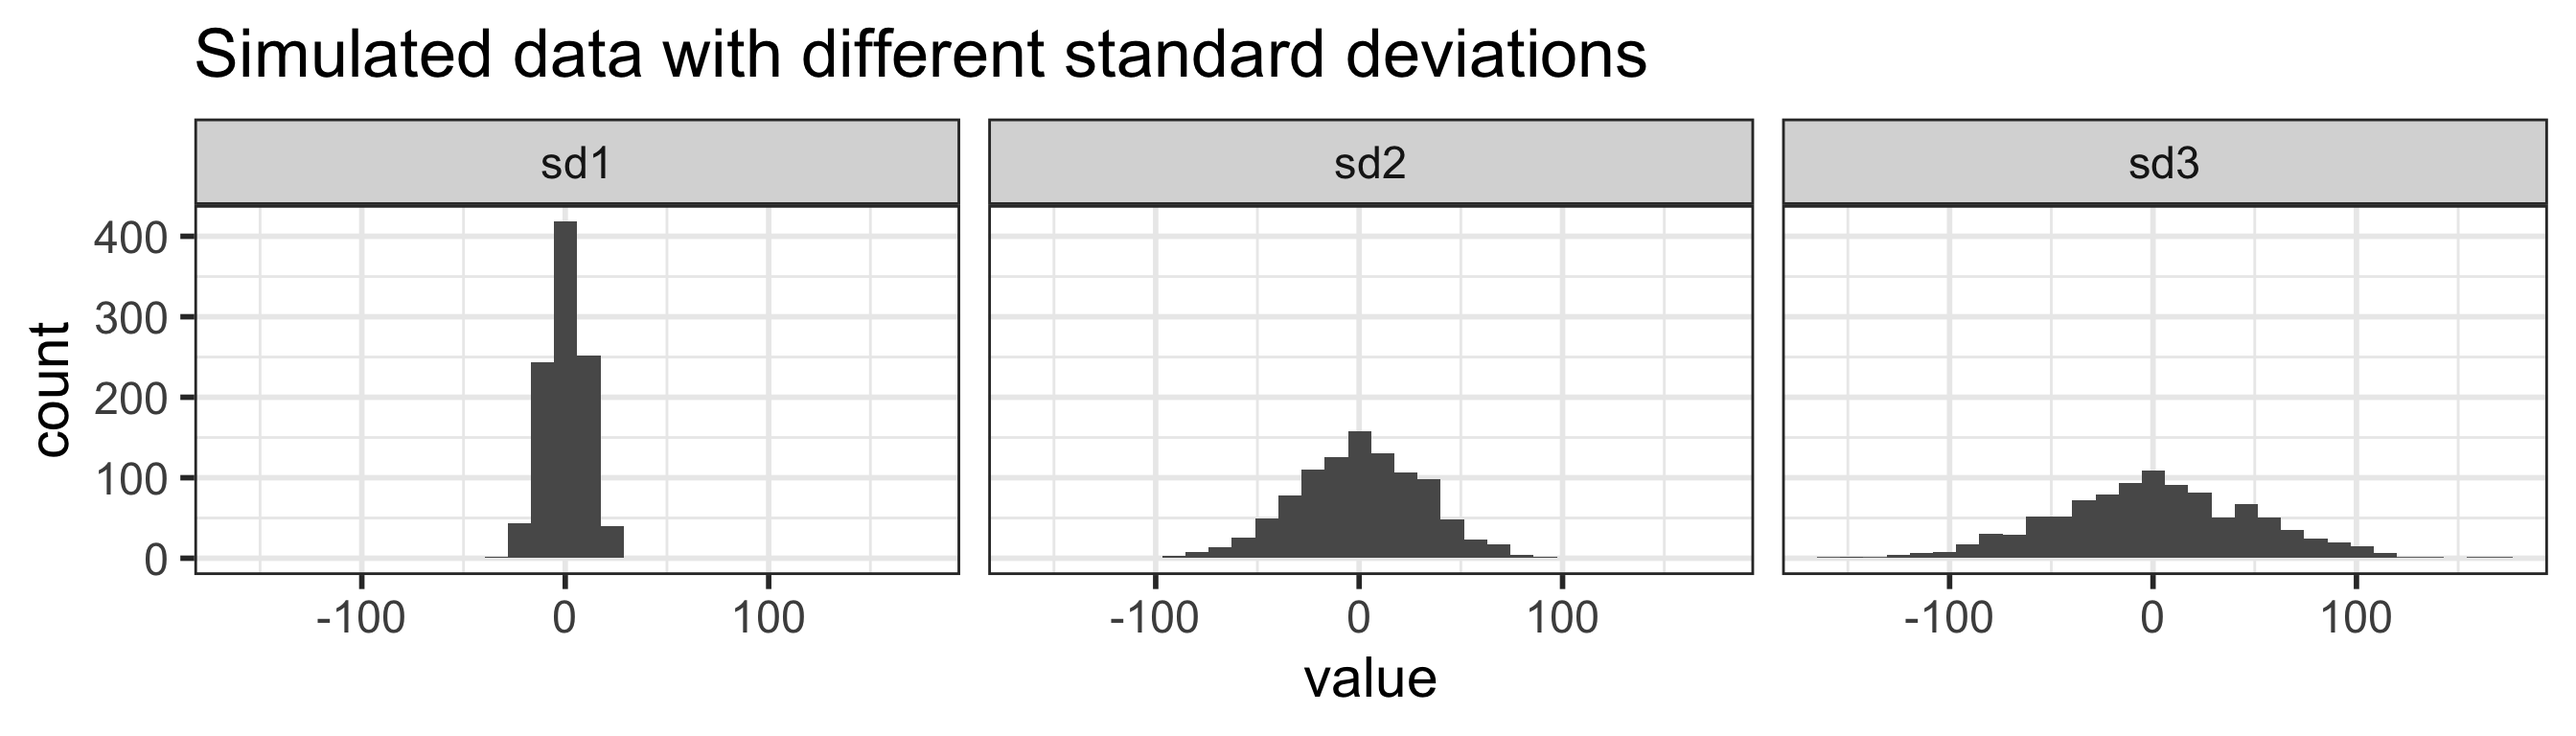
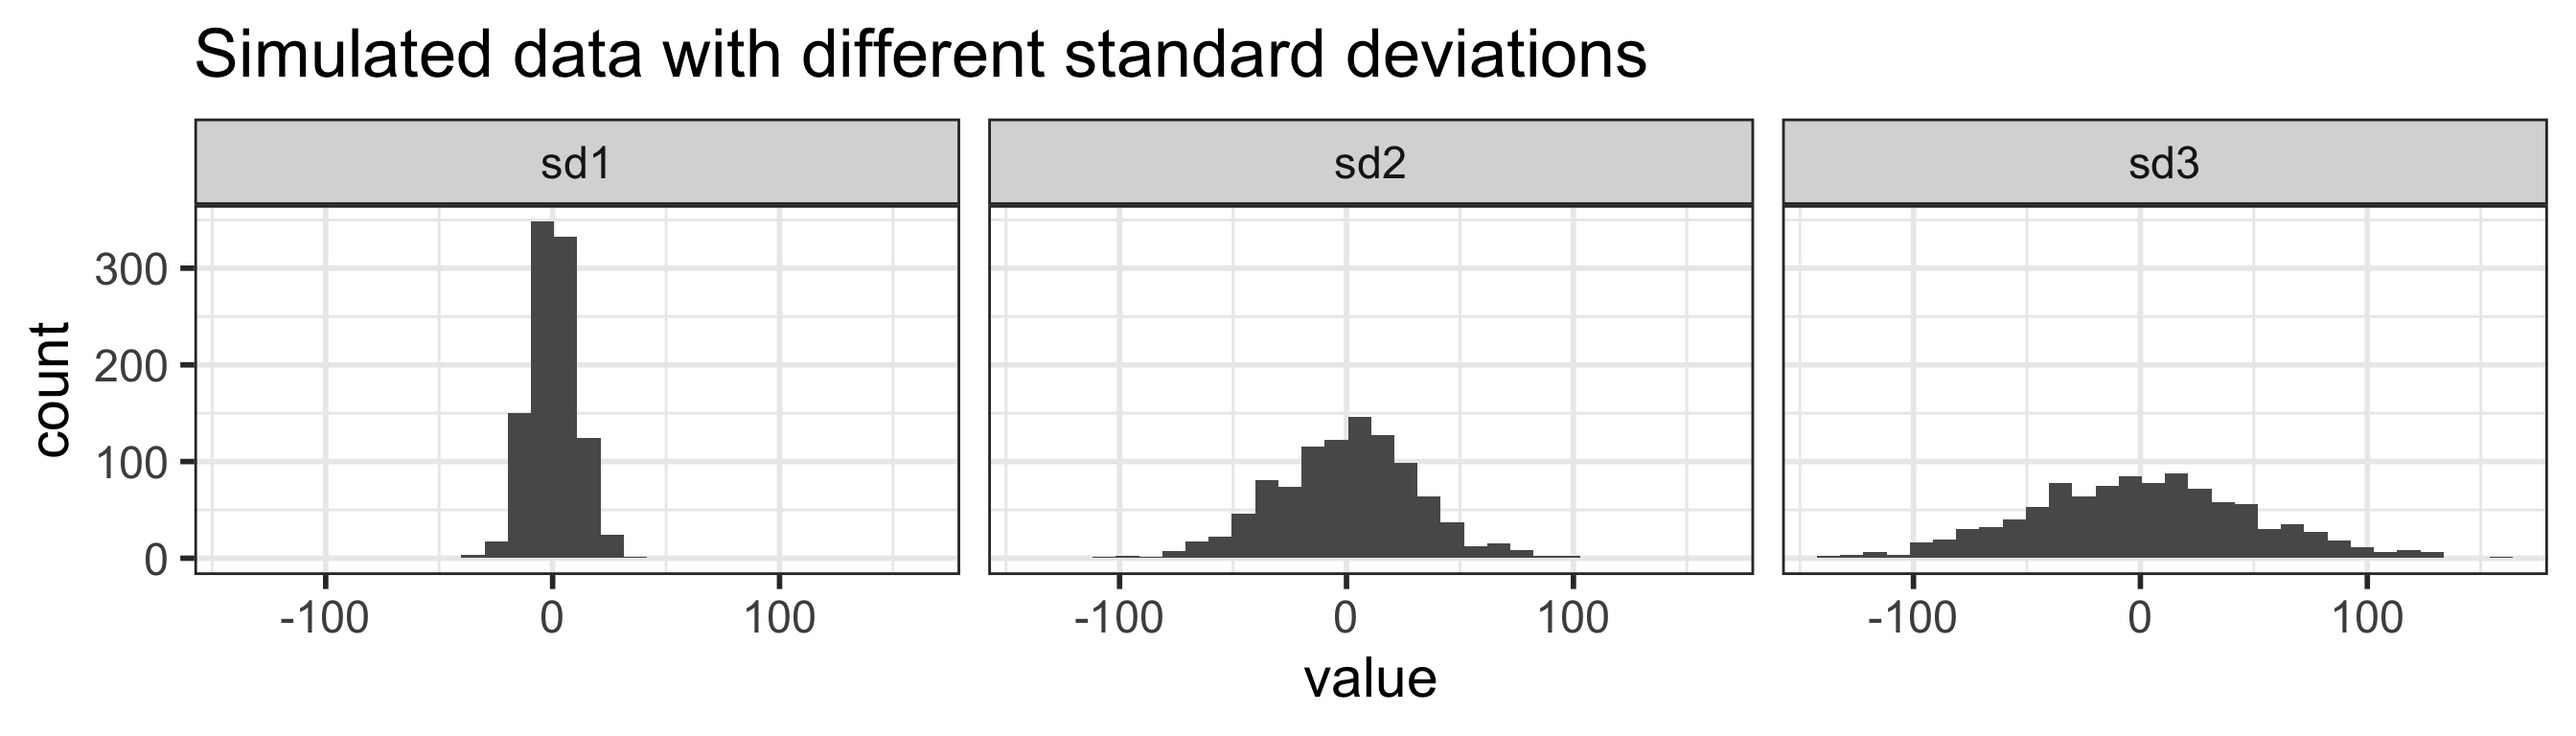
Day 2 slides: F25 -> F26

diff --git a/docs/slides_code/Day02_bsta511_code.html b/docs/slides_code/Day02_bsta511_code.html
@@ -265,7 +265,7 @@ window.Quarto = {
   <li><a href="#another-resource-for-an-introduction-to-r" id="toc-another-resource-for-an-introduction-to-r" class="nav-link" data-scroll-target="#another-resource-for-an-introduction-to-r">Another resource for an introduction to R</a></li>
   </ul></li>
   <li><a href="#moritzs-tip-of-the-day" id="toc-moritzs-tip-of-the-day" class="nav-link" data-scroll-target="#moritzs-tip-of-the-day">MoRitz’s tip of the day</a></li>
-  <li><a href="#data-collection-principles---day-2-in-f25" id="toc-data-collection-principles---day-2-in-f25" class="nav-link" data-scroll-target="#data-collection-principles---day-2-in-f25">(1.3) Data collection principles - Day 2 in F25</a>
+  <li><a href="#data-collection-principles---day-2-in-f26" id="toc-data-collection-principles---day-2-in-f26" class="nav-link" data-scroll-target="#data-collection-principles---day-2-in-f26">(1.3) Data collection principles - Day 2 in F26</a>
   <ul class="collapse">
   <li><a href="#population-vs.-sample" id="toc-population-vs.-sample" class="nav-link" data-scroll-target="#population-vs.-sample">Population vs.&nbsp;sample</a>
   <ul class="collapse">
@@ -286,7 +286,7 @@ window.Quarto = {
   <li><a href="#comparing-study-designs" id="toc-comparing-study-designs" class="nav-link" data-scroll-target="#comparing-study-designs">Comparing study designs</a></li>
   <li><a href="#systematic-reviews-example" id="toc-systematic-reviews-example" class="nav-link" data-scroll-target="#systematic-reviews-example">Systematic Reviews example</a></li>
   </ul></li>
-  <li><a href="#intro-to-data---day-2-in-f25" id="toc-intro-to-data---day-2-in-f25" class="nav-link" data-scroll-target="#intro-to-data---day-2-in-f25">(1.2) Intro to Data - Day 2 in F25</a>
+  <li><a href="#intro-to-data---day-2-in-f26" id="toc-intro-to-data---day-2-in-f26" class="nav-link" data-scroll-target="#intro-to-data---day-2-in-f26">(1.2) Intro to Data - Day 2 in F26</a>
   <ul class="collapse">
   <li><a href="#how-are-data-stored-how-do-we-use-them" id="toc-how-are-data-stored-how-do-we-use-them" class="nav-link" data-scroll-target="#how-are-data-stored-how-do-we-use-them">How are data stored, how do we use them?</a>
   <ul class="collapse">
@@ -306,7 +306,7 @@ window.Quarto = {
   <li><a href="#example-using-the" id="toc-example-using-the" class="nav-link" data-scroll-target="#example-using-the">Example using the <code>$</code></a></li>
   <li><a href="#inline-code" id="toc-inline-code" class="nav-link" data-scroll-target="#inline-code">Inline code</a></li>
   </ul></li>
-  <li><a href="#summarizing-numerical-data---day-3-in-f25" id="toc-summarizing-numerical-data---day-3-in-f25" class="nav-link" data-scroll-target="#summarizing-numerical-data---day-3-in-f25">(1.4) Summarizing numerical data - Day 3 in F25</a>
+  <li><a href="#summarizing-numerical-data---day-3-in-f26" id="toc-summarizing-numerical-data---day-3-in-f26" class="nav-link" data-scroll-target="#summarizing-numerical-data---day-3-in-f26">(1.4) Summarizing numerical data - Day 3 in F26</a>
   <ul class="collapse">
   <li><a href="#table-1-example" id="toc-table-1-example" class="nav-link" data-scroll-target="#table-1-example">Table 1 example</a></li>
   <li><a href="#measures-of-center-mean" id="toc-measures-of-center-mean" class="nav-link" data-scroll-target="#measures-of-center-mean">Measures of center: mean</a></li>
@@ -326,7 +326,7 @@ window.Quarto = {
   <li><a href="#measures-of-spread-iqr-22" id="toc-measures-of-spread-iqr-22" class="nav-link" data-scroll-target="#measures-of-spread-iqr-22">Measures of spread: IQR (2/2)</a></li>
   <li><a href="#robust-estimates" id="toc-robust-estimates" class="nav-link" data-scroll-target="#robust-estimates">Robust estimates</a></li>
   </ul></li>
-  <li><a href="#r-packages---day-4-in-f25" id="toc-r-packages---day-4-in-f25" class="nav-link" data-scroll-target="#r-packages---day-4-in-f25">R Packages - Day 4 in F25</a>
+  <li><a href="#r-packages---day-4-in-f26" id="toc-r-packages---day-4-in-f26" class="nav-link" data-scroll-target="#r-packages---day-4-in-f26">R Packages - Day 4 in F26</a>
   <ul class="collapse">
   <li><a href="#installing-packages" id="toc-installing-packages" class="nav-link" data-scroll-target="#installing-packages">Installing packages</a></li>
   <li><a href="#video-on-installing-packages" id="toc-video-on-installing-packages" class="nav-link" data-scroll-target="#video-on-installing-packages">Video on installing packages</a></li>
@@ -379,25 +379,25 @@ window.Quarto = {
 <section id="goals-for-today" class="level1">
 <h1>Goals for today</h1>
 <ul>
-<li>(1.3) <strong>Data collection principles</strong> - <span style="color:darkorange">Day 2 in F25</span>
+<li>(1.3) <strong>Data collection principles</strong> - <span style="color:darkorange">Day 2 in F26</span>
 <ul>
 <li>Population vs.&nbsp;sample</li>
 <li>Sampling methods</li>
 <li>Experiments vs.&nbsp;Observational studies</li>
 </ul></li>
-<li>(1.2) <strong>Intro to Data</strong> - <span style="color:darkorange">Day 2 in F25</span>
+<li>(1.2) <strong>Intro to Data</strong> - <span style="color:darkorange">Day 2 in F26</span>
 <ul>
 <li>Data types</li>
 <li>How are data stored in R?</li>
 <li>Working with data in R</li>
 </ul></li>
-<li>(1.4) <strong>Summarizing numerical data</strong> - <span style="color:darkorange">Day 3 in F25</span>
+<li>(1.4) <strong>Summarizing numerical data</strong> - <span style="color:darkorange">Day 3 in F26</span>
 <ul>
 <li>Mean, median, mode, SD, IQR, range, 5 number summary</li>
 <li>Empirical Rule</li>
 <li>robust statistics</li>
 </ul></li>
-<li><strong>R packages</strong> - <span style="color:darkorange">Day 4 in F25</span> -&gt; <strong><span style="color:darkorange">install for Day 5!!!</span></strong></li>
+<li><strong>R packages</strong> - <span style="color:darkorange">Day 4 in F26</span> -&gt; <strong><span style="color:darkorange">install for Day 5!!!</span></strong></li>
 </ul>
 </section>
 <section id="recap-of-last-time" class="level1">
@@ -476,8 +476,8 @@ window.Quarto = {
 <p>Customize your RStudio interface!<br>
 <a href="https://www.pipinghotdata.com/posts/2020-09-07-introducing-the-rstudio-ide-and-r-markdown/#background">https://www.pipinghotdata.com/posts/2020-09-07-introducing-the-rstudio-ide-and-r-markdown/#background</a></p>
 </section>
-<section id="data-collection-principles---day-2-in-f25" class="level1">
-<h1>(1.3) Data collection principles - Day 2 in F25</h1>
+<section id="data-collection-principles---day-2-in-f26" class="level1">
+<h1>(1.3) Data collection principles - Day 2 in F26</h1>
 <ul>
 <li>Population vs.&nbsp;sample</li>
 <li>Sampling methods</li>
@@ -630,8 +630,8 @@ the characteristics of the sample are similar to the characteristics of the popu
 The project is funded by the US Department of Veterans Affairs: Office of Rural Health.</p>
 </section>
 </section>
-<section id="intro-to-data---day-2-in-f25" class="level1">
-<h1>(1.2) Intro to Data - Day 2 in F25</h1>
+<section id="intro-to-data---day-2-in-f26" class="level1">
+<h1>(1.2) Intro to Data - Day 2 in F26</h1>
 <section id="how-are-data-stored-how-do-we-use-them" class="level2">
 <h2 class="anchored" data-anchor-id="how-are-data-stored-how-do-we-use-them">How are data stored, how do we use them?</h2>
 <ul>
@@ -954,8 +954,8 @@ The project is funded by the US Department of Veterans Affairs: Office of Rural 
 </ul>
 </section>
 </section>
-<section id="summarizing-numerical-data---day-3-in-f25" class="level1">
-<h1>(1.4) Summarizing numerical data - Day 3 in F25</h1>
+<section id="summarizing-numerical-data---day-3-in-f26" class="level1">
+<h1>(1.4) Summarizing numerical data - Day 3 in F26</h1>
 <p>Measures of center &amp; spread</p>
 <section id="table-1-example" class="level2">
 <h2 class="anchored" data-anchor-id="table-1-example">Table 1 example</h2>
@@ -1234,8 +1234,8 @@ Arthritis Care &amp; Research.<br>
 </table>
 </section>
 </section>
-<section id="r-packages---day-4-in-f25" class="level1">
-<h1>R Packages - Day 4 in F25</h1>
+<section id="r-packages---day-4-in-f26" class="level1">
+<h1>R Packages - Day 4 in F26</h1>
 <p>A good analogy for R packages is that they<br>
 are like apps you can download onto a mobile phone:</p>
 <section id="installing-packages" class="level2">

diff --git a/docs/slides_md/Day02_bsta511_md.html b/docs/slides_md/Day02_bsta511_md.html
@@ -265,7 +265,7 @@ window.Quarto = {
   <li><a href="#another-resource-for-an-introduction-to-r" id="toc-another-resource-for-an-introduction-to-r" class="nav-link" data-scroll-target="#another-resource-for-an-introduction-to-r">Another resource for an introduction to R</a></li>
   </ul></li>
   <li><a href="#moritzs-tip-of-the-day" id="toc-moritzs-tip-of-the-day" class="nav-link" data-scroll-target="#moritzs-tip-of-the-day">MoRitz’s tip of the day</a></li>
-  <li><a href="#data-collection-principles---day-2-in-f25" id="toc-data-collection-principles---day-2-in-f25" class="nav-link" data-scroll-target="#data-collection-principles---day-2-in-f25">(1.3) Data collection principles - Day 2 in F25</a>
+  <li><a href="#data-collection-principles---day-2-in-f26" id="toc-data-collection-principles---day-2-in-f26" class="nav-link" data-scroll-target="#data-collection-principles---day-2-in-f26">(1.3) Data collection principles - Day 2 in F26</a>
   <ul class="collapse">
   <li><a href="#population-vs.-sample" id="toc-population-vs.-sample" class="nav-link" data-scroll-target="#population-vs.-sample">Population vs.&nbsp;sample</a>
   <ul class="collapse">
@@ -282,7 +282,7 @@ window.Quarto = {
   <li><a href="#comparing-study-designs" id="toc-comparing-study-designs" class="nav-link" data-scroll-target="#comparing-study-designs">Comparing study designs</a></li>
   <li><a href="#systematic-reviews-example" id="toc-systematic-reviews-example" class="nav-link" data-scroll-target="#systematic-reviews-example">Systematic Reviews example</a></li>
   </ul></li>
-  <li><a href="#intro-to-data---day-2-in-f25" id="toc-intro-to-data---day-2-in-f25" class="nav-link" data-scroll-target="#intro-to-data---day-2-in-f25">(1.2) Intro to Data - Day 2 in F25</a>
+  <li><a href="#intro-to-data---day-2-in-f26" id="toc-intro-to-data---day-2-in-f26" class="nav-link" data-scroll-target="#intro-to-data---day-2-in-f26">(1.2) Intro to Data - Day 2 in F26</a>
   <ul class="collapse">
   <li><a href="#how-are-data-stored-how-do-we-use-them" id="toc-how-are-data-stored-how-do-we-use-them" class="nav-link" data-scroll-target="#how-are-data-stored-how-do-we-use-them">How are data stored, how do we use them?</a>
   <ul class="collapse">
@@ -302,7 +302,7 @@ window.Quarto = {
   <li><a href="#example-using-the" id="toc-example-using-the" class="nav-link" data-scroll-target="#example-using-the">Example using the <code>$</code></a></li>
   <li><a href="#inline-code" id="toc-inline-code" class="nav-link" data-scroll-target="#inline-code">Inline code</a></li>
   </ul></li>
-  <li><a href="#summarizing-numerical-data---day-3-in-f25" id="toc-summarizing-numerical-data---day-3-in-f25" class="nav-link" data-scroll-target="#summarizing-numerical-data---day-3-in-f25">(1.4) Summarizing numerical data - Day 3 in F25</a>
+  <li><a href="#summarizing-numerical-data---day-3-in-f26" id="toc-summarizing-numerical-data---day-3-in-f26" class="nav-link" data-scroll-target="#summarizing-numerical-data---day-3-in-f26">(1.4) Summarizing numerical data - Day 3 in F26</a>
   <ul class="collapse">
   <li><a href="#table-1-example" id="toc-table-1-example" class="nav-link" data-scroll-target="#table-1-example">Table 1 example</a></li>
   <li><a href="#measures-of-center-mean" id="toc-measures-of-center-mean" class="nav-link" data-scroll-target="#measures-of-center-mean">Measures of center: mean</a></li>
@@ -318,7 +318,7 @@ window.Quarto = {
   <li><a href="#measures-of-spread-iqr-22" id="toc-measures-of-spread-iqr-22" class="nav-link" data-scroll-target="#measures-of-spread-iqr-22">Measures of spread: IQR (2/2)</a></li>
   <li><a href="#robust-estimates" id="toc-robust-estimates" class="nav-link" data-scroll-target="#robust-estimates">Robust estimates</a></li>
   </ul></li>
-  <li><a href="#r-packages---day-4-in-f25" id="toc-r-packages---day-4-in-f25" class="nav-link" data-scroll-target="#r-packages---day-4-in-f25">R Packages - Day 4 in F25</a>
+  <li><a href="#r-packages---day-4-in-f26" id="toc-r-packages---day-4-in-f26" class="nav-link" data-scroll-target="#r-packages---day-4-in-f26">R Packages - Day 4 in F26</a>
   <ul class="collapse">
   <li><a href="#r-packages" id="toc-r-packages" class="nav-link" data-scroll-target="#r-packages">R Packages</a></li>
   <li><a href="#installing-packages" id="toc-installing-packages" class="nav-link" data-scroll-target="#installing-packages">Installing packages</a></li>
@@ -372,25 +372,25 @@ window.Quarto = {
 <section id="goals-for-today" class="level1 smaller">
 <h1 class="smaller">Goals for today</h1>
 <ul>
-<li>(1.3) <strong>Data collection principles</strong> - <span style="color:darkorange">Day 2 in F25</span>
+<li>(1.3) <strong>Data collection principles</strong> - <span style="color:darkorange">Day 2 in F26</span>
 <ul>
 <li>Population vs.&nbsp;sample</li>
 <li>Sampling methods</li>
 <li>Experiments vs.&nbsp;Observational studies</li>
 </ul></li>
-<li>(1.2) <strong>Intro to Data</strong> - <span style="color:darkorange">Day 2 in F25</span>
+<li>(1.2) <strong>Intro to Data</strong> - <span style="color:darkorange">Day 2 in F26</span>
 <ul>
 <li>Data types</li>
 <li>How are data stored in R?</li>
 <li>Working with data in R</li>
 </ul></li>
-<li>(1.4) <strong>Summarizing numerical data</strong> - <span style="color:darkorange">Day 3 in F25</span>
+<li>(1.4) <strong>Summarizing numerical data</strong> - <span style="color:darkorange">Day 3 in F26</span>
 <ul>
 <li>Mean, median, mode, SD, IQR, range, 5 number summary</li>
 <li>Empirical Rule</li>
 <li>robust statistics</li>
 </ul></li>
-<li><strong>R packages</strong> - <span style="color:darkorange">Day 4 in F25</span> -&gt; <strong><span style="color:darkorange">install for Day 5!!!</span></strong></li>
+<li><strong>R packages</strong> - <span style="color:darkorange">Day 4 in F26</span> -&gt; <strong><span style="color:darkorange">install for Day 5!!!</span></strong></li>
 </ul>
 </section>
 <section id="recap-of-last-time" class="level1 smaller">
@@ -509,8 +509,8 @@ window.Quarto = {
 </div>
 </div>
 </section>
-<section id="data-collection-principles---day-2-in-f25" class="level1">
-<h1>(1.3) Data collection principles - Day 2 in F25</h1>
+<section id="data-collection-principles---day-2-in-f26" class="level1">
+<h1>(1.3) Data collection principles - Day 2 in F26</h1>
 <ul>
 <li>Population vs.&nbsp;sample</li>
 <li>Sampling methods</li>
@@ -744,8 +744,8 @@ The project is funded by the US Department of Veterans Affairs: Office of Rural 
 </div>
 </section>
 </section>
-<section id="intro-to-data---day-2-in-f25" class="level1">
-<h1>(1.2) Intro to Data - Day 2 in F25</h1>
+<section id="intro-to-data---day-2-in-f26" class="level1">
+<h1>(1.2) Intro to Data - Day 2 in F26</h1>
 <div class="quarto-figure quarto-figure-center">
 <figure class="figure">
 <p><img src="../img_slides/horst_data_cowboy.png" class="img-fluid figure-img"></p>
@@ -1135,8 +1135,8 @@ The project is funded by the US Department of Veterans Affairs: Office of Rural 
 </div>
 </section>
 </section>
-<section id="summarizing-numerical-data---day-3-in-f25" class="level1">
-<h1>(1.4) Summarizing numerical data - Day 3 in F25</h1>
+<section id="summarizing-numerical-data---day-3-in-f26" class="level1">
+<h1>(1.4) Summarizing numerical data - Day 3 in F26</h1>
 <div class="columns">
 <div class="column" style="width:30%;">
 <p>Measures of center &amp; spread</p>
@@ -1479,8 +1479,8 @@ Arthritis Care &amp; Research.<br>
 </table>
 </section>
 </section>
-<section id="r-packages---day-4-in-f25" class="level1">
-<h1>R Packages - Day 4 in F25</h1>
+<section id="r-packages---day-4-in-f26" class="level1">
+<h1>R Packages - Day 4 in F26</h1>
 <!-- background-image: url(img/tidyverse_celestial.jpg) -->
 <!-- background-size: cover -->
 <div class="quarto-figure quarto-figure-center">

diff --git a/docs/slides/Day02_bsta511.html b/docs/slides/Day02_bsta511.html
@@ -219,25 +219,25 @@ Meike Niederhausen, PhD
 <section id="goals-for-today" class="title-slide slide level1 smaller center">
 <h1>Goals for today</h1>
 <ul>
-<li>(1.3) <strong>Data collection principles</strong> - <span style="color:darkorange">Day 2 in F25</span>
+<li>(1.3) <strong>Data collection principles</strong> - <span style="color:darkorange">Day 2 in F26</span>
 <ul>
 <li>Population vs.&nbsp;sample</li>
 <li>Sampling methods</li>
 <li>Experiments vs.&nbsp;Observational studies</li>
 </ul></li>
-<li>(1.2) <strong>Intro to Data</strong> - <span style="color:darkorange">Day 2 in F25</span>
+<li>(1.2) <strong>Intro to Data</strong> - <span style="color:darkorange">Day 2 in F26</span>
 <ul>
 <li>Data types</li>
 <li>How are data stored in R?</li>
 <li>Working with data in R</li>
 </ul></li>
-<li>(1.4) <strong>Summarizing numerical data</strong> - <span style="color:darkorange">Day 3 in F25</span>
+<li>(1.4) <strong>Summarizing numerical data</strong> - <span style="color:darkorange">Day 3 in F26</span>
 <ul>
 <li>Mean, median, mode, SD, IQR, range, 5 number summary</li>
 <li>Empirical Rule</li>
 <li>robust statistics</li>
 </ul></li>
-<li><strong>R packages</strong> - <span style="color:darkorange">Day 4 in F25</span> -&gt; <strong><span style="color:darkorange">install for Day 5!!!</span></strong></li>
+<li><strong>R packages</strong> - <span style="color:darkorange">Day 4 in F26</span> -&gt; <strong><span style="color:darkorange">install for Day 5!!!</span></strong></li>
 </ul>
 </section>
 
@@ -356,8 +356,8 @@ Meike Niederhausen, PhD
 </section>
 
 <section>
-<section id="data-collection-principles---day-2-in-f25" class="title-slide slide level1 center">
-<h1>(1.3) Data collection principles - Day 2 in F25</h1>
+<section id="data-collection-principles---day-2-in-f26" class="title-slide slide level1 center">
+<h1>(1.3) Data collection principles - Day 2 in F26</h1>
 <ul>
 <li>Population vs.&nbsp;sample</li>
 <li>Sampling methods</li>
@@ -578,8 +578,8 @@ The project is funded by the US Department of Veterans Affairs: Office of Rural 
 </div></div>
 </section></section>
 <section>
-<section id="intro-to-data---day-2-in-f25" class="title-slide slide level1 center">
-<h1>(1.2) Intro to Data - Day 2 in F25</h1>
+<section id="intro-to-data---day-2-in-f26" class="title-slide slide level1 center">
+<h1>(1.2) Intro to Data - Day 2 in F26</h1>
 
 <img data-src="../img_slides/horst_data_cowboy.png" class="r-stretch quarto-figure-center"><p class="caption"><a href="https://allisonhorst.com/r-packages-functions">Artwork by <span class="citation" data-cites="allison_horst">@allison_horst</span></a></p></section>
 <section id="how-are-data-stored-how-do-we-use-them" class="slide level2 smaller">
@@ -959,8 +959,8 @@ The project is funded by the US Department of Veterans Affairs: Office of Rural 
 </div>
 </section></section>
 <section>
-<section id="summarizing-numerical-data---day-3-in-f25" class="title-slide slide level1 center">
-<h1>(1.4) Summarizing numerical data - Day 3 in F25</h1>
+<section id="summarizing-numerical-data---day-3-in-f26" class="title-slide slide level1 center">
+<h1>(1.4) Summarizing numerical data - Day 3 in F26</h1>
 <div class="columns">
 <div class="column" style="width:30%;">
 <p>Measures of center &amp; spread</p>
@@ -1264,8 +1264,8 @@ Arthritis Care &amp; Research.<br>
 </table>
 </section></section>
 <section>
-<section id="r-packages---day-4-in-f25" class="title-slide slide level1 center">
-<h1>R Packages - Day 4 in F25</h1>
+<section id="r-packages---day-4-in-f26" class="title-slide slide level1 center">
+<h1>R Packages - Day 4 in F26</h1>
 <!-- background-image: url(img/tidyverse_celestial.jpg) -->
 <!-- background-size: cover -->
 

diff --git a/docs/class_slides.html b/docs/class_slides.html
@@ -512,7 +512,7 @@ Categories
 
 </tr>
 
-<tr data-index="14" data-categories="V2VlayUyMDI=" data-listing-date-sort="1791183600000" data-listing-file-modified-sort="1790579113695" data-listing-date-modified-sort="NaN" data-listing-reading-time-sort="16" data-listing-word-count-sort="3165" data-listing-title-sort="Day 2: Data collection &amp; numerical summaries" data-listing-filename-sort="Day02_bsta511.qmd" onclick="href = this.querySelector('a').getAttribute('href');
+<tr data-index="14" data-categories="V2VlayUyMDI=" data-listing-date-sort="1791183600000" data-listing-file-modified-sort="1791680174249" data-listing-date-modified-sort="NaN" data-listing-reading-time-sort="16" data-listing-word-count-sort="3165" data-listing-title-sort="Day 2: Data collection &amp; numerical summaries" data-listing-filename-sort="Day02_bsta511.qmd" onclick="href = this.querySelector('a').getAttribute('href');
  if (href) { window.location=href ; return false; }">
 <td>
 <span class="listing-date">10/5/26</span>
